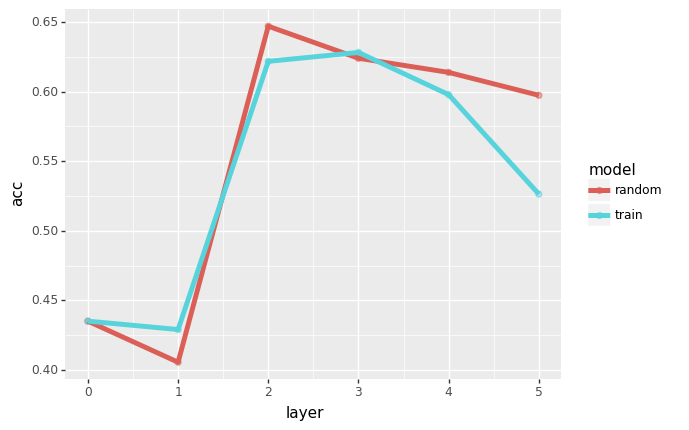
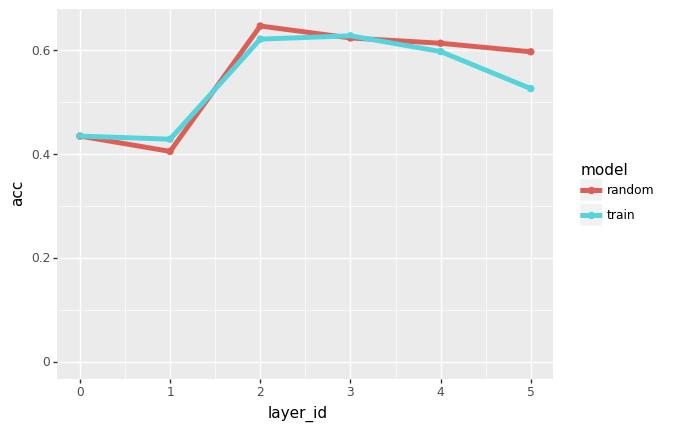
Plotting in platalea/analysis/decoding.py

diff --git a/platalea/analysis/decoding.py b/platalea/analysis/decoding.py
@@ -7,6 +7,8 @@ import os.path
 import logging
 import json
 import numpy as np
+from plotnine import *
+import pandas as pd 
 
 def phoneme_decoding():
     logging.getLogger().setLevel('INFO')
@@ -18,26 +20,26 @@ def phoneme_decoding():
     #nets = [('random', net_rand), ('trained', net_train)]
     nets = [('trained', net_train), ('random', net_rand)]
  
-    result = {}
+    result = []
     # Recurrent
     for rep, net in nets:
         with torch.no_grad():
             net.eval()
             data = phoneme_data([(rep, net)], batch_size=32) # FIXME this hack is to prevent RAM error
-            if 'mfcc' not in result:
-                logging.info("Fitting Logistic Regression for mfcc")
-                acc = logreg_acc(data['mfcc']['features'], data['mfcc']['labels'])
-                logging.info("Result for {}, {} = {}".format(rep, 'mfcc', acc))
-                result['mfcc'] = acc
-            result[rep] = {}
-            for kind in data[rep]:
+            logging.info("Fitting Logistic Regression for mfcc")
+            acc = logreg_acc(data['mfcc']['features'], data['mfcc']['labels'])
+            logging.info("Result for {}, {} = {}".format(rep, 'mfcc', acc))
+            result.append(dict(model=rep, layer='mfcc', layer_id=0, acc=acc))
+            for j, kind in enumerate(data[rep], start=1):
                 logging.info("Fitting Logistic Regression for {}, {}".format(rep, kind))
                 acc = logreg_acc(data[rep][kind]['features'], data[rep][kind]['labels'])
                 logging.info("Result for {}, {} = {}".format(rep, kind, acc))
-                result[rep][kind] =  acc
-    json.dump(result, open("phoneme_decoding.json", "w"), indent=True)
- 
-
+                result.append(dict(model=rep, layer=kind, layer_id=j, acc=acc))
+    json.dump(result, open("experiments/basic-stack/phoneme_decoding.json", "w"), indent=True)
+    data = pd.read_json("experiments/basic-stack/phoneme_decoding.json", orient='records') 
+    g = ggplot(data, aes(x='layer_id', y='acc', color='model')) + geom_point(size=2) + geom_line(size=2) + ylim(0,max(data['acc'])) 
+    ggsave(g, 'experiments/basic-stack/phoneme_decoding.png')
+     
 def phoneme_data(nets,  batch_size):
     """Generate data for training a phoneme decoding model."""
     alignment_path="/roaming/gchrupal/datasets/flickr8k/dataset.val.fa.json"
